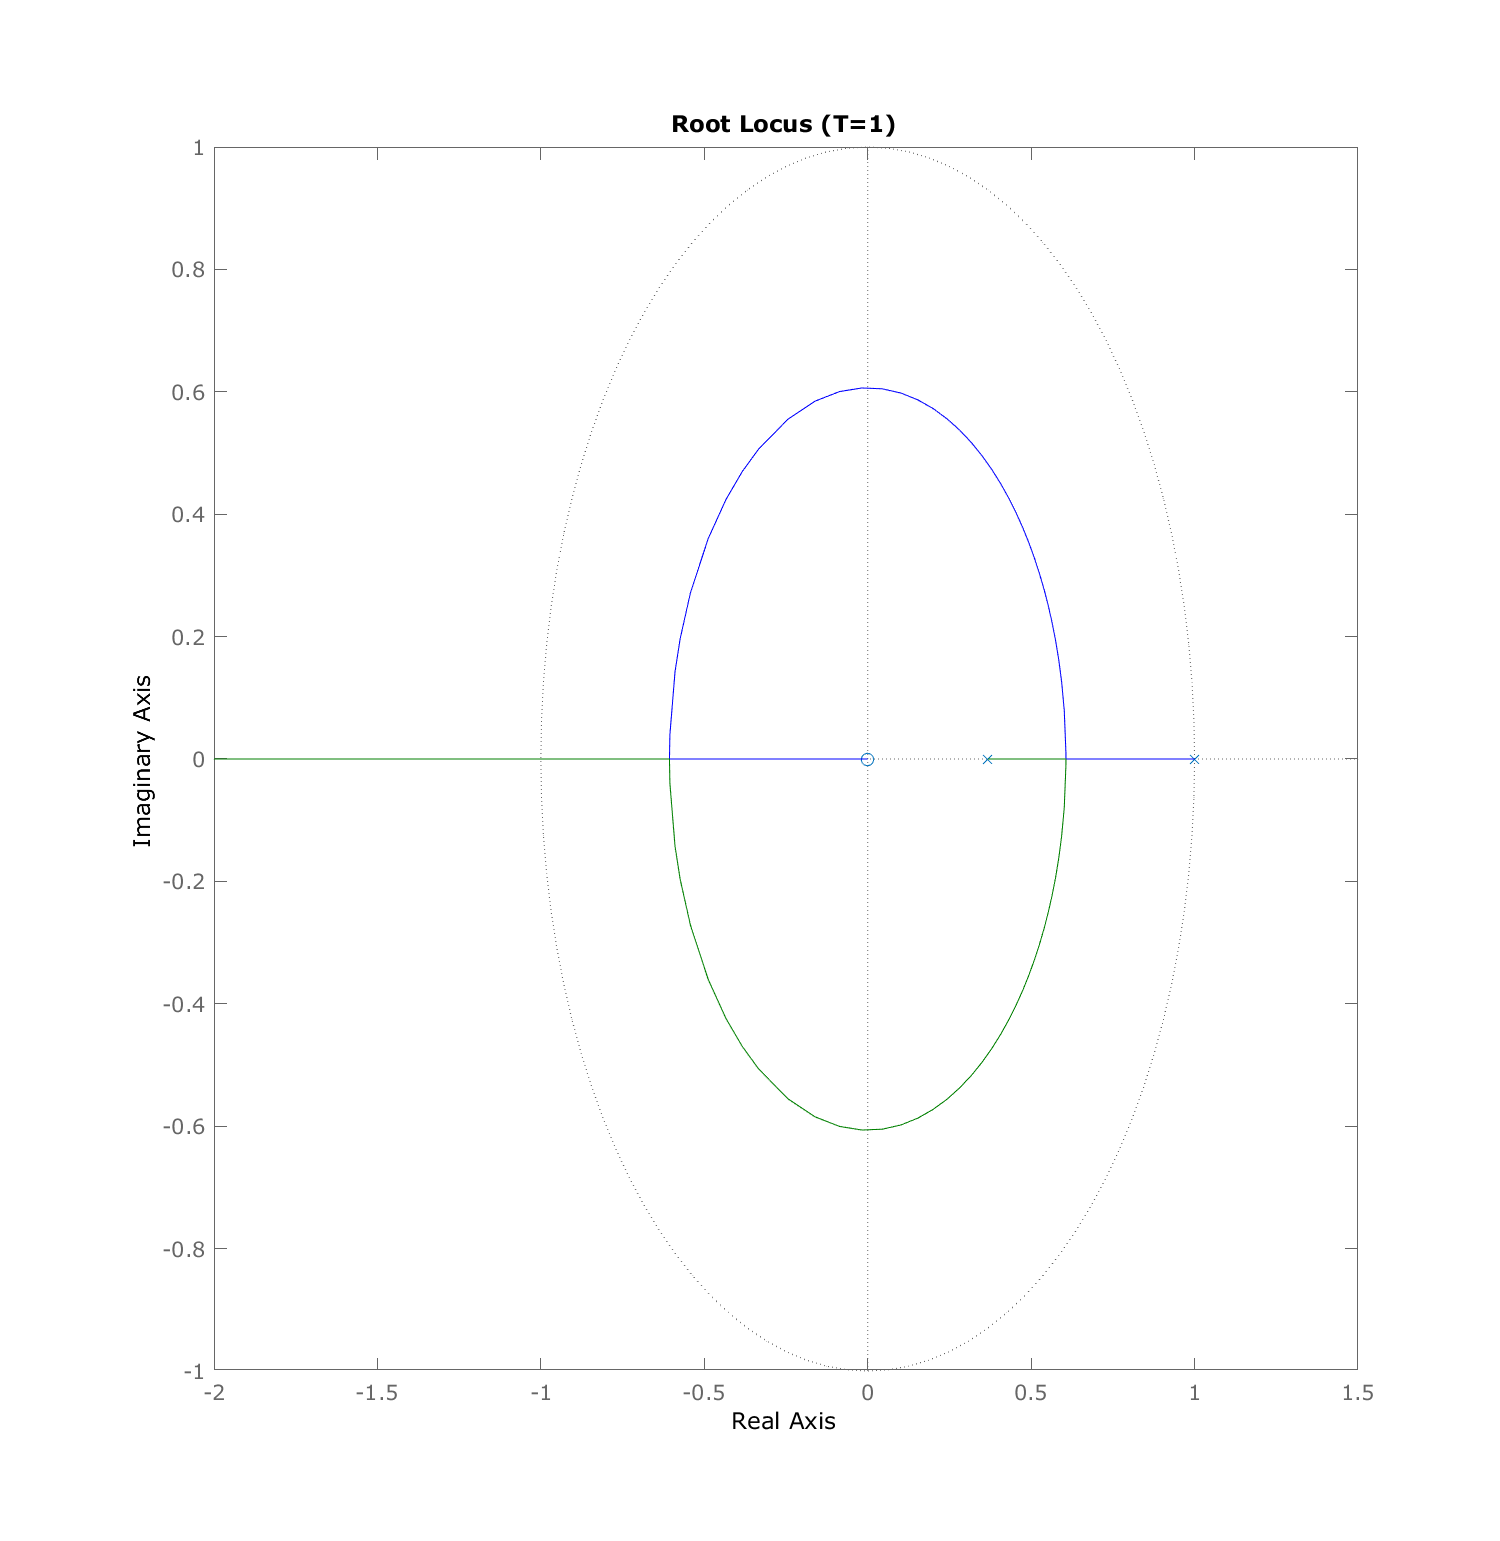
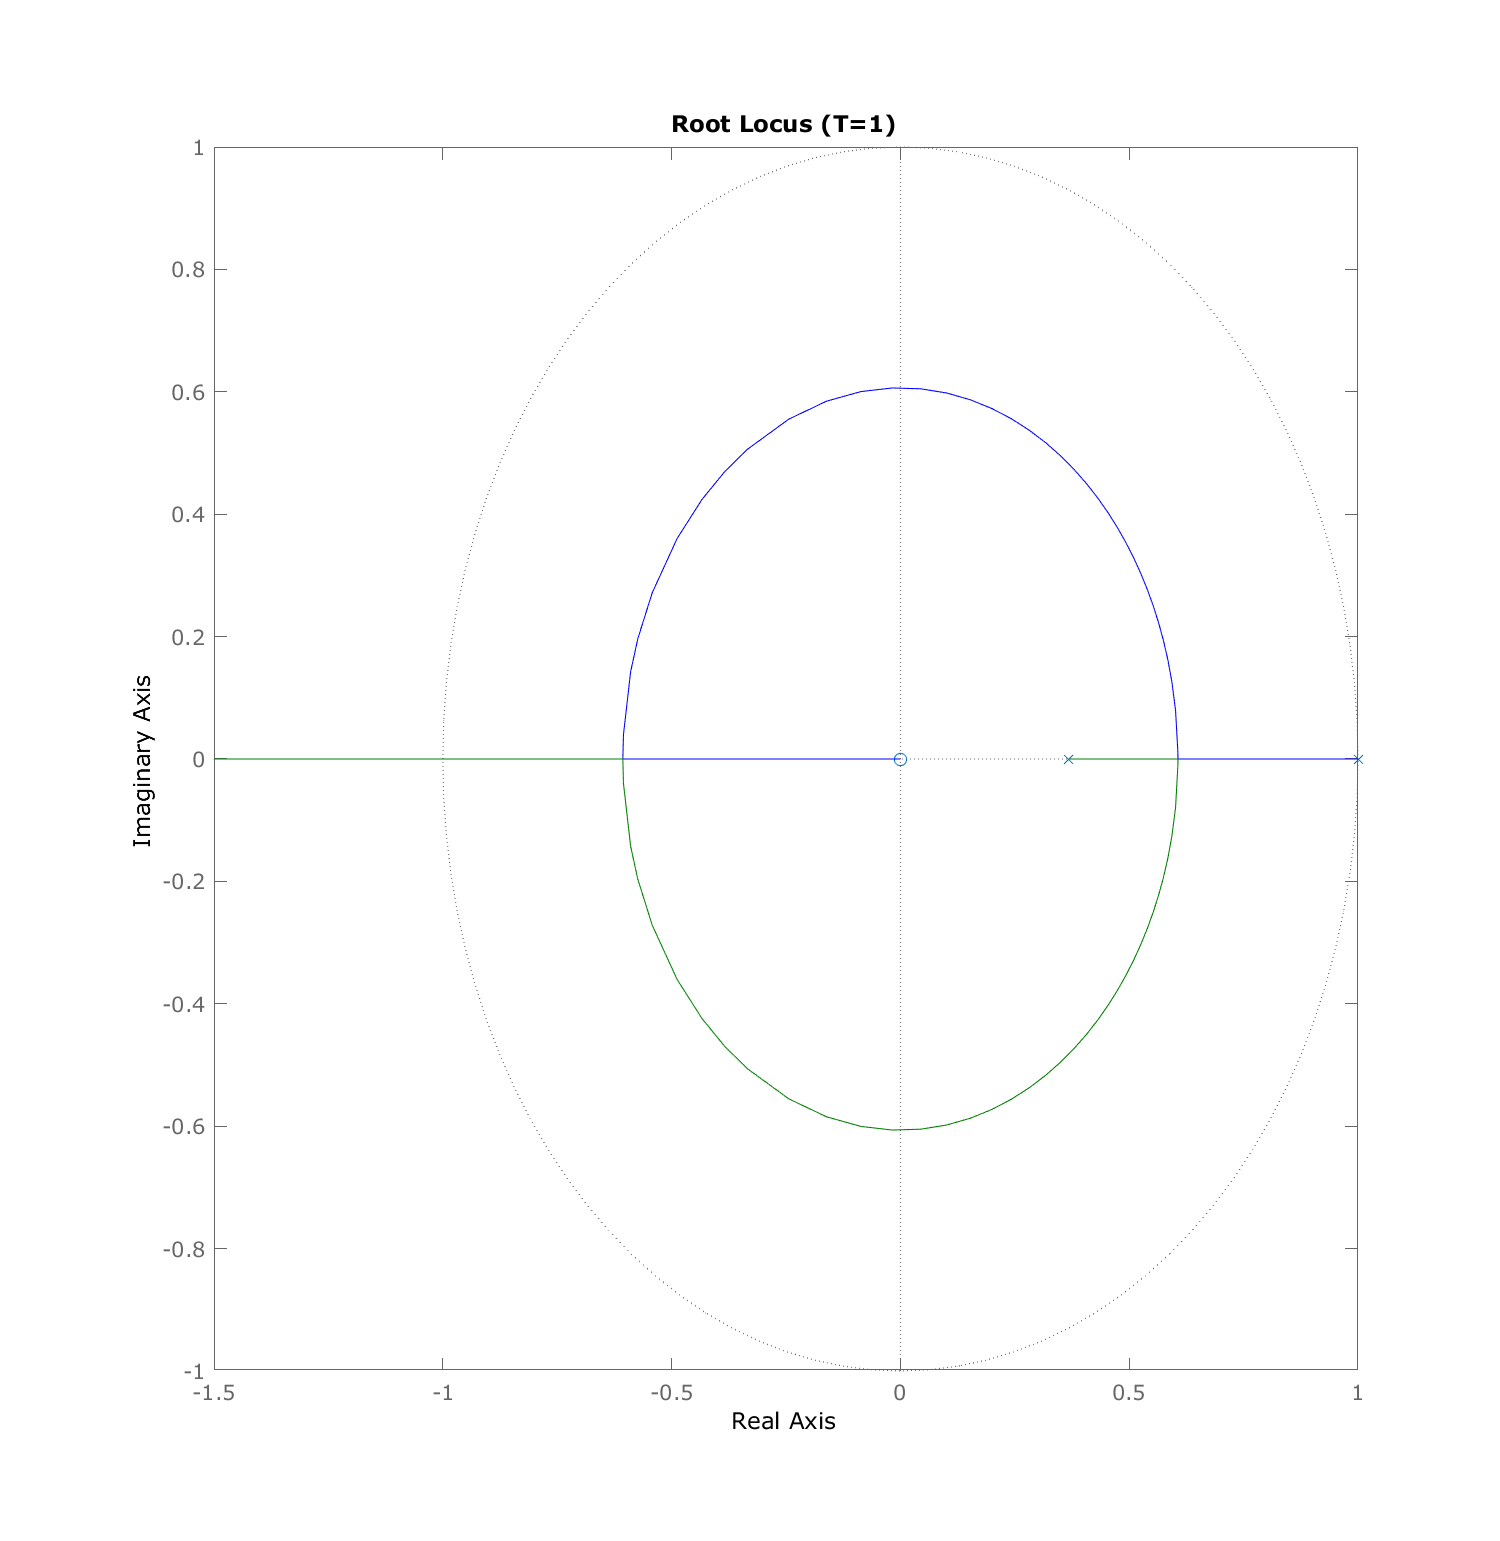
Add exsim3 imgs

diff --git a/src/tex/exsim3.tex b/src/tex/exsim3.tex
@@ -91,6 +91,7 @@ Avaliando a função para diferentes períodos de amostragem obtemos os seguinte
 Pelas figuras nota-se que o gráfico do LGR cruza o circulo de raio unitário definido em tracejado apenas no ponto $z=-1$ de modo que, em particular para este sistema podemos encontrar o valor do ganho crítico subsituindo $z=-1$ na equação \ref{eq:ex3-k-poly}. Em particular para $T=\{0.5,1,2\}$ temos os seguintes valores críticos para $K$:
 
 \begin{table}[H]
+    \centering
     $$
     \begin{array}{cl}
         \hline
@@ -111,22 +112,35 @@ Simulando o sistema para diferentes os períodos de amostragem $T={0.5,1,2}$ for
 \begin{figure}[H]
     \centering
     \includegraphics[width=0.8\linewidth]{img/exsim3-step-t500ms.png}
-    \caption{ $T=0.5s$}
+    \caption{ Resposta ao Degrau ($T=0.5s$)}
 \end{figure}
 
 \begin{figure}[H]
     \centering
     \includegraphics[width=0.8\linewidth]{img/exsim3-step-t1000ms.png}
-    \caption{ $T=1s$}
+    \caption{ Resposta ao Degrau ($T=1s$)}
 \end{figure}
 
 \begin{figure}[H]
     \centering
     \includegraphics[width=0.8\linewidth]{img/exsim3-step-t2000ms.png}
-    \caption{ $T=2s$}
+    \caption{ Resposta ao Degrau ($T=2s$)}
 \end{figure}
 
 %% TODO Gerar tabela com Sobresinal e Tempo de Acomodação
+
+\begin{table}[H]
+    $$
+    \begin{array}{cccc}
+        \hline
+        T [s] & Sobressinal & \zeta & T_s\ [s] \\
+        \hline
+        \input{aux/exsim3-g-table.tex}
+        \\\hline
+    \end{array}
+    $$
+\end{table}
+
 
 \subsection{}
 
@@ -150,6 +164,8 @@ o os polos podem ser obtidos por $ \rho = -\zeta\omega_n \pm j\omega_n\sqrt{1-\z
 Desta forma temos que o módulo será $|z_{\rho}| =  e^{-\zeta\omega_n T} = e^{-\frac{4T}{t_s}}$ e o fase de $z_\rho$ será $arg(z_{\rho}) = \omega_n\sqrt{1-\zeta^2} = \frac{4}{t_s\zeta}\sqrt{1-\zeta^2}$. Com isto, para garantir que este requisitos seja cumpridos basta verificar se o LGR no plano $z$ passa pelo ponto $z = z_{\rho}$.
 
 \subsection{Resposta sistema em malha fechada}
+
+% Calcular função de transferẽncia
 
 Inicialmente, para uma primeira estimativa do comportamento do sistema podemos obter o gráfico do lugar das raizes para o sistema em malha fechada sem o controlador. O que seria equivalente a um controlador dado apenas por um ganho ajustável.
 

diff --git a/src/matlab/exsim3.m b/src/matlab/exsim3.m
@@ -7,6 +7,7 @@ close all
 % Get path from current file and generate absolute path
 file_path = fileparts(mfilename('fullpath'))
 img_path = strcat(file_path,"/../tex/img/")
+tex_path = strcat(file_path,"/../tex/aux/")
 
 % Define Symbols
 syms s z T w K
@@ -36,7 +37,8 @@ sGmf = simplify(expand(sGma/(1+sGma)))
 [~,poly] = numden(sGmf)
 eval(subs(solve(poly,K),[z T],[-1 2]))
 
-
+% Create File for table
+fileTable = fopen(strcat(tex_path,"exsim3-g-table.tex"),"w")
 
 for Ts = [0.5 1 2]
     [num,den] = numden(subs(sGc,T,Ts))
@@ -46,6 +48,7 @@ for Ts = [0.5 1 2]
     % Root Locus
     fig = figure()
     rlocus(Gz)
+    xlim([-1.5 1])
     title(strcat("Root Locus (T=",num2str(Ts),")"))
     print(fig, strcat(img_path,"exsim3-rlocus-t",num2str(Ts*1000),"ms.png"),"-dpng")
     
@@ -68,7 +71,16 @@ for Ts = [0.5 1 2]
 
     % Step Response
     sysinfo = stepinfo(Gcc)
+
+    % Calculate Damping
+    damping = log(sysinfo.Overshoot)/sqrt(pi^2+(log(sysinfo.Overshoot)^2))
+
+    % Print System Response to tex table
+    fprintf(fileTable,"%.1f & %.3f & %.3f & %.3f\\\\\n",Ts, sysinfo.Overshoot, damping , sysinfo.SettlingTime);
 end
+
+fprintf(fileTable,"\n")
+fclose(fileTable);
 
 %% Part 2
 
@@ -92,6 +104,7 @@ Gz2 = c2d(G2,Ts,'zoh')
 sGc = (z-0.6703)/(z-0.1)
 [num,den] = numden(subs(sGc,T,Ts))
 Gc = tf(sym2poly(num),sym2poly(den),Ts)
+Gmf2 = feedback(Gc*Gz2,1)
 
 % Root Locus
 fig = figure()
@@ -100,3 +113,18 @@ zgrid()
 xlim([-3 1.5])
 print(fig, strcat(img_path,"exsim3-rlocus-g2.png"),"-dpng")
 
+% Root Locus Controler
+fig = figure()
+rlocus(Gz2*Gc)
+zgrid()
+xlim([-3 1.5])
+print(fig, strcat(img_path,"exsim3-rlocus-g2-control.png"),"-dpng")
+
+% Step Response
+fig = figure()
+step(Gmf2)
+sysinfo2 = stepinfo(Gmf2)
+qsi = log(sysinfo2.Overshoot)/sqrt(pi^2+(log(sysinfo2.Overshoot)^2))
+print(fig, strcat(img_path,"exsim3-step-g2-control.png"),"-dpng")
+
+close all
